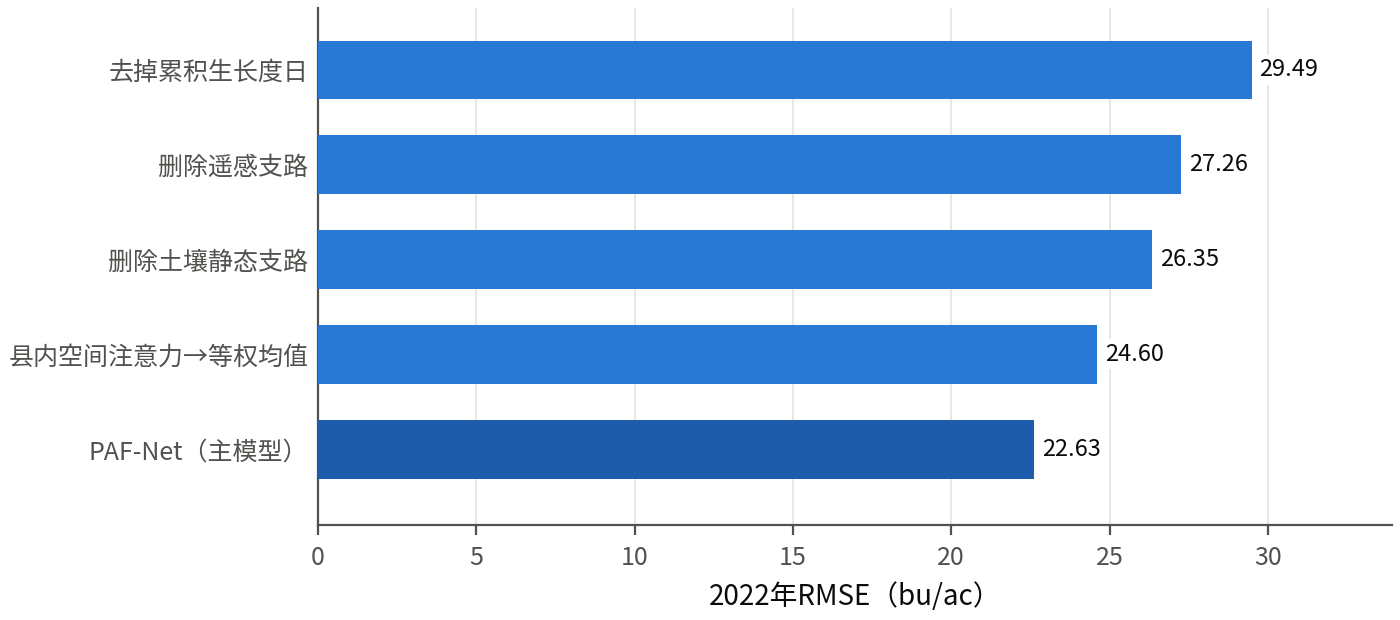
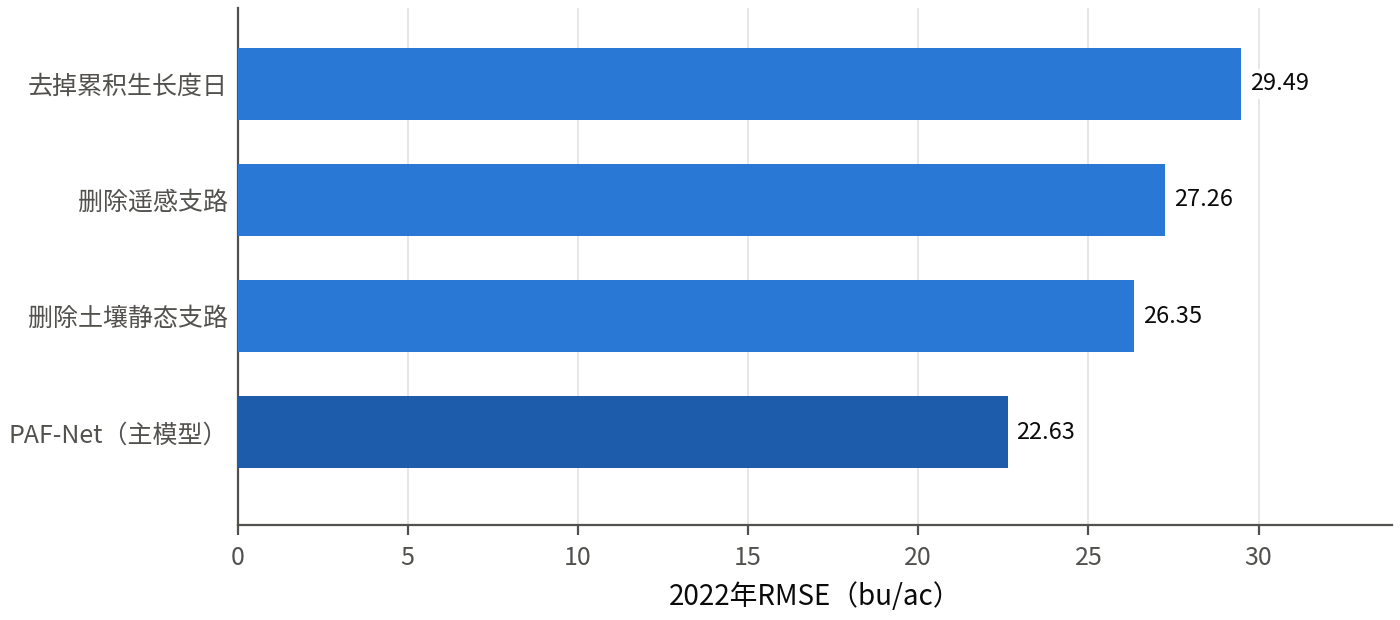
docs: drop component ablation and keep input ablation only

diff --git a/TFT_model/figures_2022.py b/TFT_model/figures_2022.py
@@ -2,7 +2,7 @@
 
 图5-1  2022年观测—预测散点（PAF-Net 与 GNN-RNN，后者是三个深度基线中最好的一组）
 图5-2  分州RMSE哑铃图（PAF-Net 对 GNN-RNN，按差值排序）
-图5-3  组件消融的RMSE
+图5-3  输入消融的RMSE
 
 预测来自 `/data/raid0/hqx/TFT_out/tft/paper-main-y2022-s0`（环境变量 `LOYO_RUN`
 可覆盖）；比较模型取 `paper_report_tft.py` 中 BASELINES 的同一运行目录。
@@ -114,7 +114,6 @@ def fig_state_dumbbell(plt, fips, pred, truth, base):
 def fig_ablation(plt, main_rmse):
     report = json.loads((OUT / "single_fold_2022.json").read_text(encoding="utf-8"))
     rows = [("PAF-Net（主模型）", report["main"]["rmse"])]
-    rows += [(row["label"], row["rmse"]) for row in report.get("component_ablation", {}).values()]
     rows += [(row["label"], row["rmse"]) for row in report.get("removal_ablation", {}).values()]
     rows.sort(key=lambda r: r[1])
     fig, ax = plt.subplots(figsize=(7.0, 3.1), constrained_layout=True)
